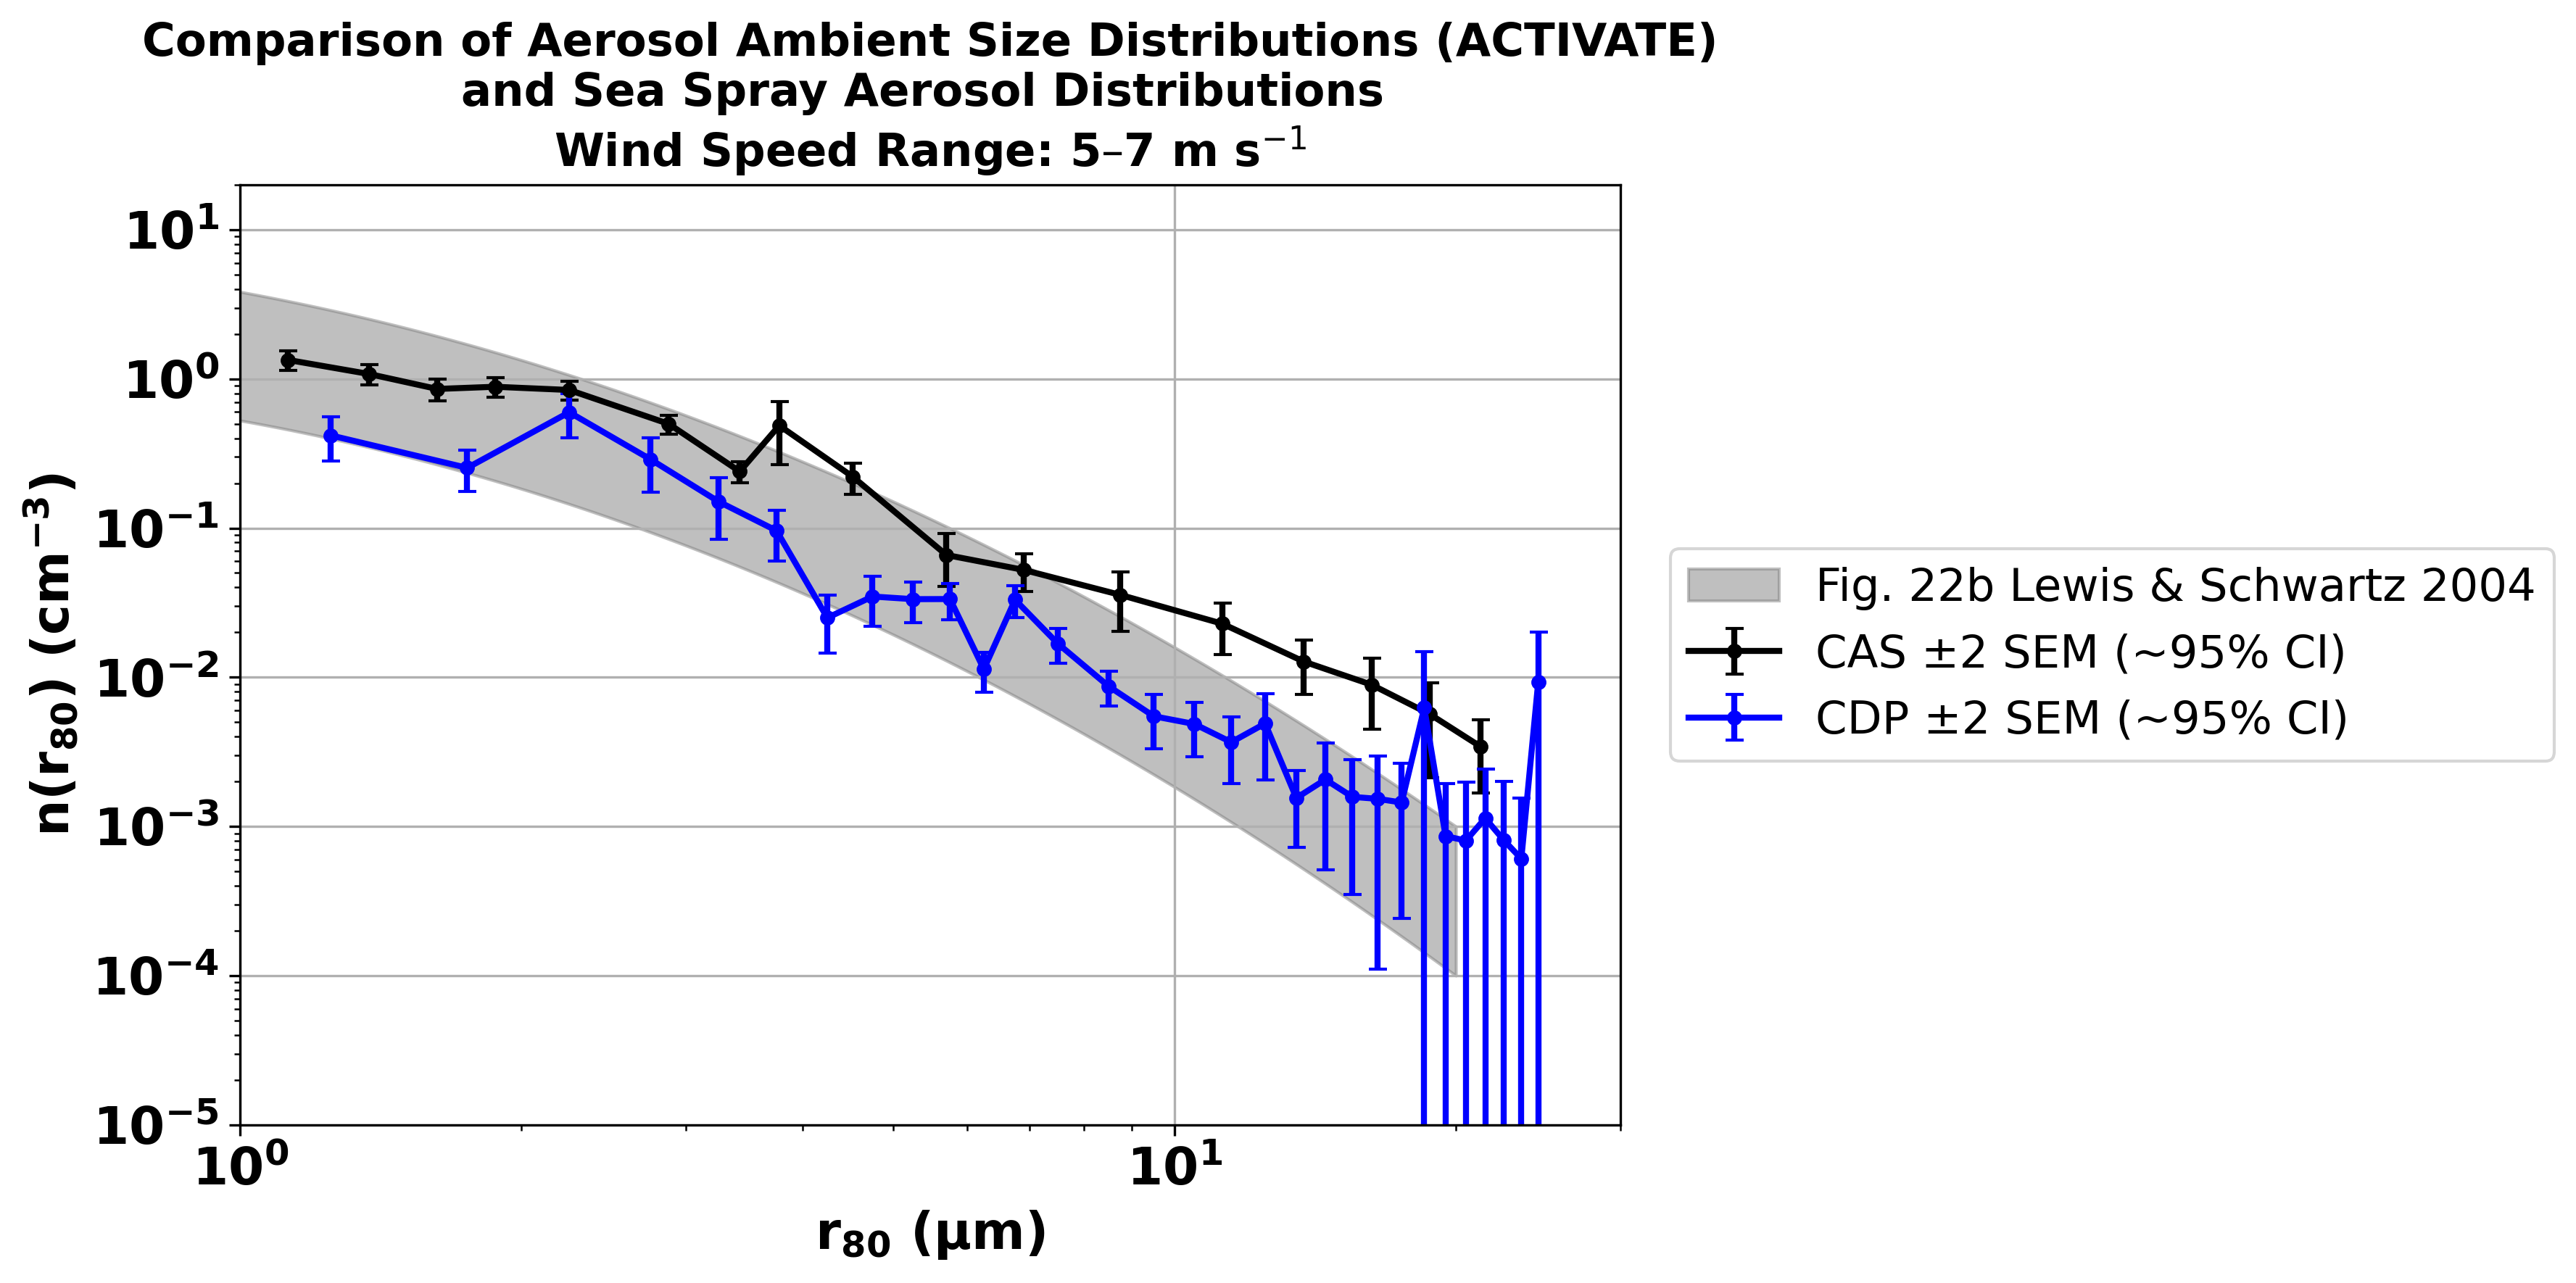
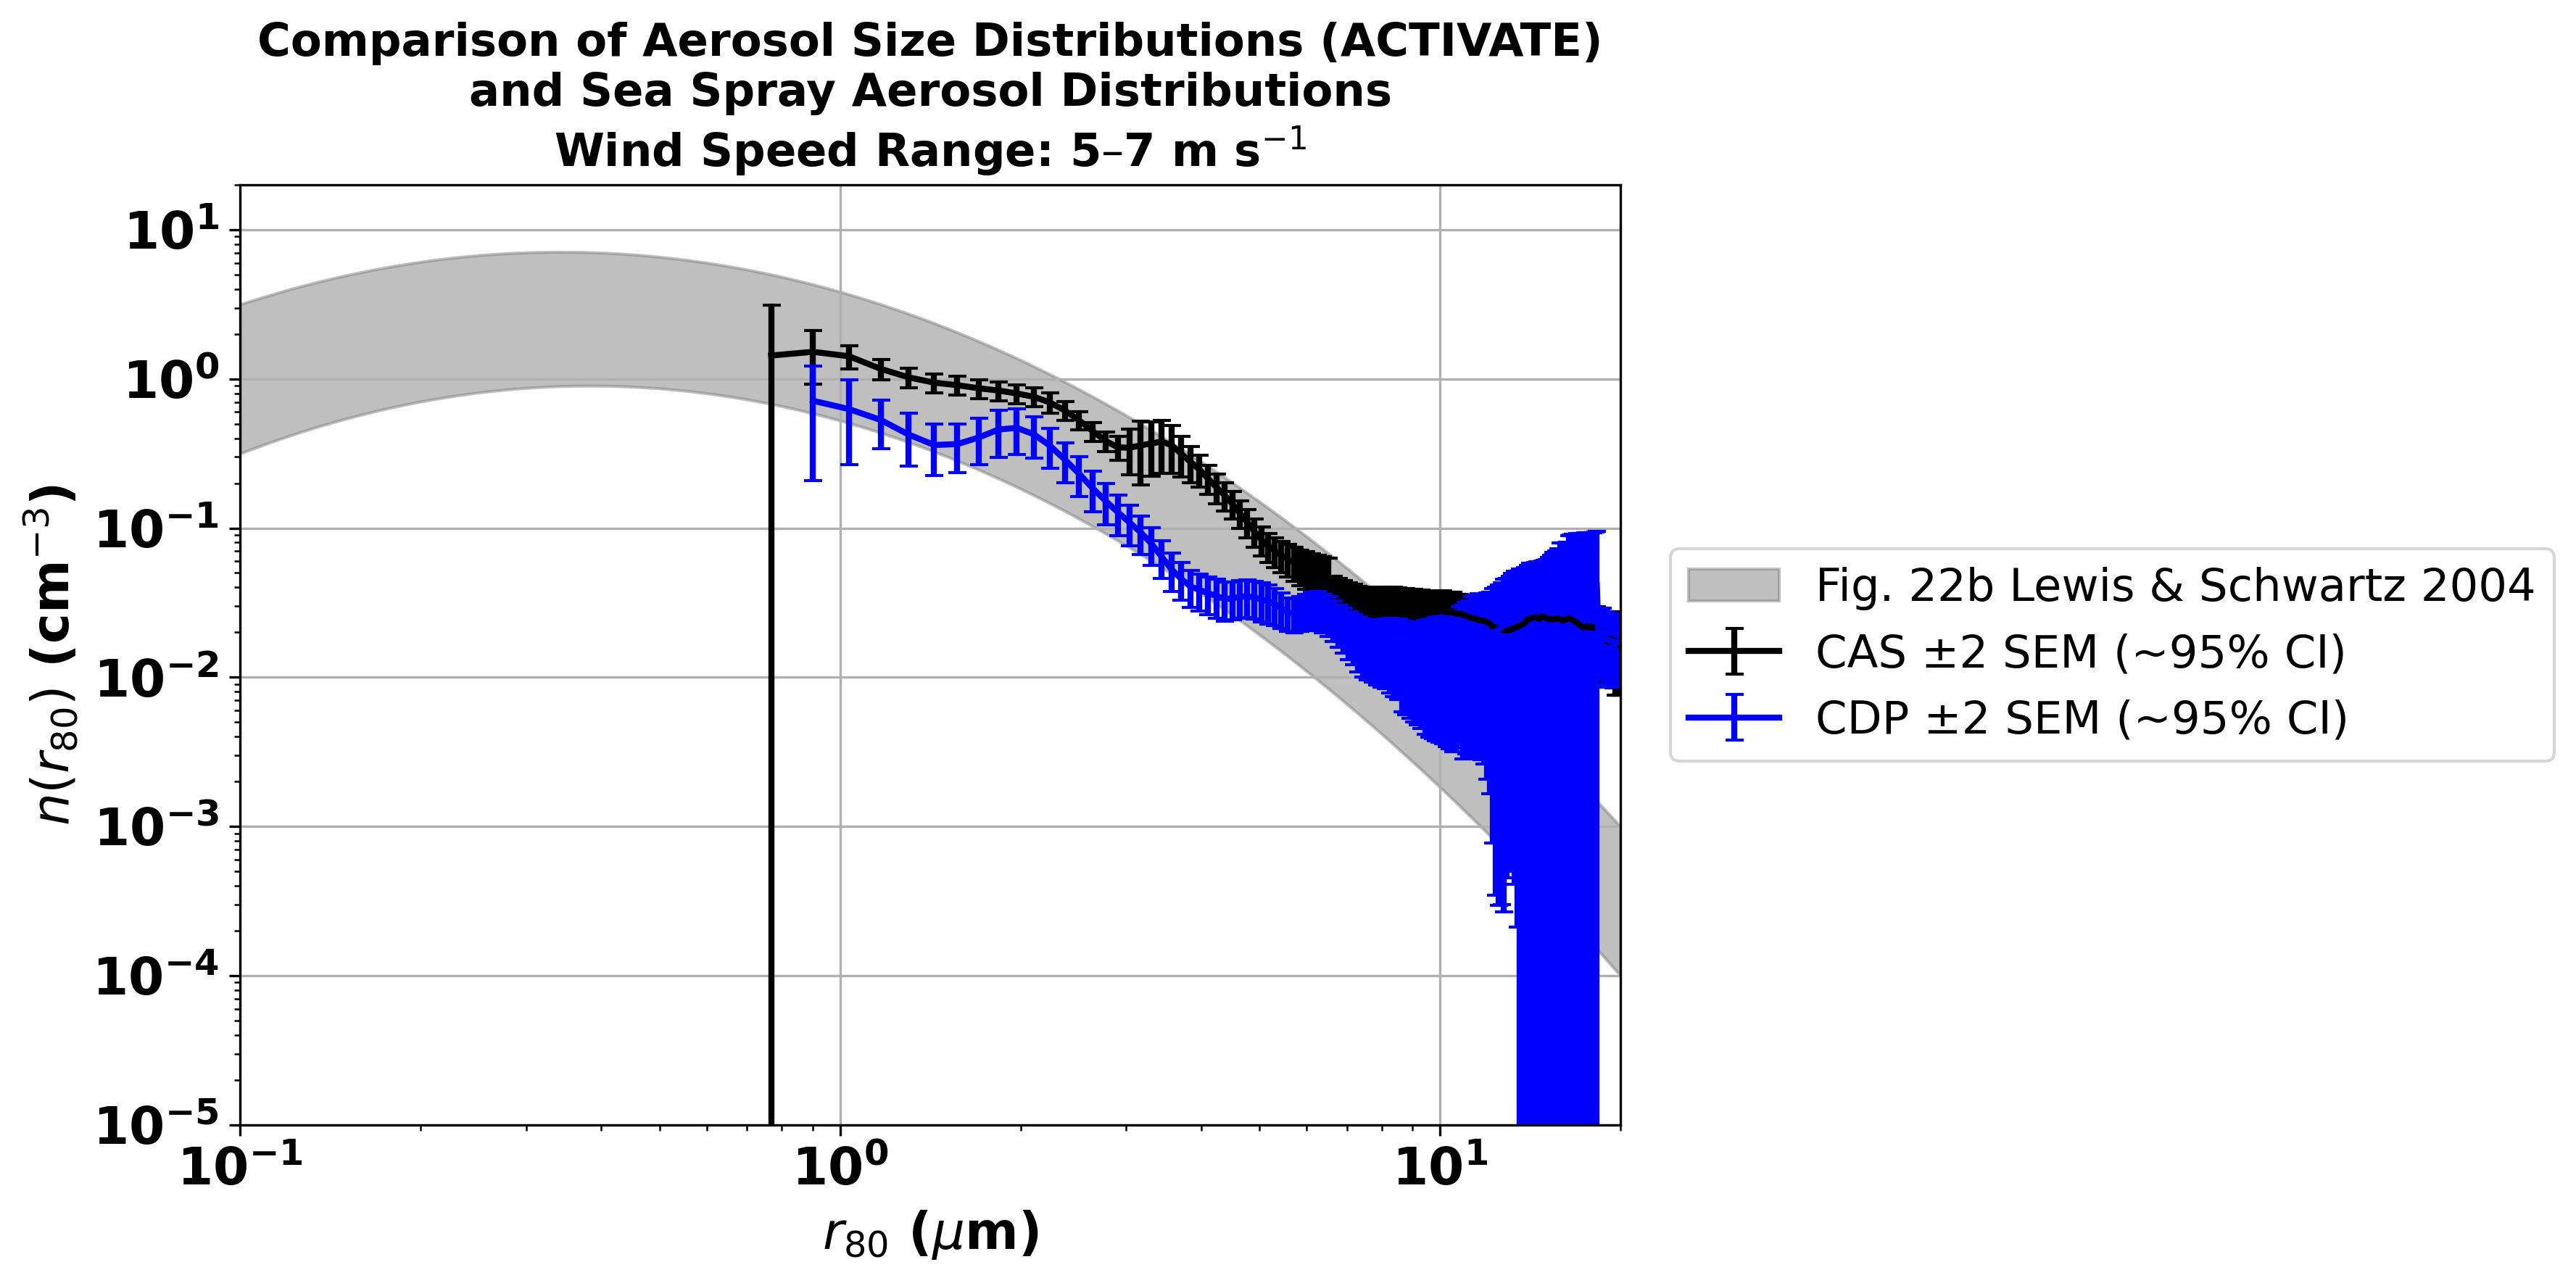
fixing LS again

diff --git a/CDP/below cloud base/2022_CDP_windspeedmassetc_humidity.py b/CDP/below cloud base/2022_CDP_windspeedmassetc_humidity.py
@@ -4095,3 +4095,147 @@ plt.show()
 #save figure as a pdf
 fig.savefig("Mass_Concentration_WindSpeed_paper.pdf", format='pdf', bbox_inches='tight')
 # %%
+#saving 
+BASE_DIR = "/home/disk/p/kathem24/activate/ACTIVATE-2024-2025/CDP/below cloud base"
+outfile = os.path.join(BASE_DIR, "CAS_CDP_wind_mass_concentration_windspeed.npz")
+np.savez(
+    outfile,
+    windspeed_values=windspeed_values,
+    total_concentrations=total_concentrations,
+    standard_errors=standard_errors,
+    counting_errors_CAS=counting_errors_CAS,
+
+    windspeed_values_CDP=windspeed_values_CDP,
+    total_concentrations_CDP=total_concentrations_CDP,
+    standard_errors_CDP=standard_errors_CDP,
+    counting_errors_CDP=counting_errors_CDP,
+    cas_x=cas_x,
+    cas_y=cas_y,
+    cas_se=cas_se,
+    cas_ce=cas_ce,
+
+    cdp_x=cdp_x,
+    cdp_y=cdp_y,
+    cdp_se=cdp_se,
+    cdp_ce=cdp_ce,
+    x_fit_CAS=x_fit_CAS,
+    y_fit_CAS=y_fit_CAS,
+    x_fit_CDP=x_fit_CDP,
+    y_fit_CDP=y_fit_CDP,
+
+    xfit_cas=xfit_cas,
+    yfit_cas=yfit_cas,
+    xfit_cdp=xfit_cdp,
+    yfit_cdp=yfit_cdp
+)
+
+print("Saved wind-bin plot data to:", outfile)
+# %%
+#table of all of this information 
+windbin_df = pd.DataFrame({
+    "Wind bin\n(mean WS, m s$^{-1}$)": [
+        "Bin 0\n(1.79 / 1.77)", 
+        "Bin 1\n(2.94 / 2.96)",
+        "Bin 2\n(4.20 / 4.22)",
+        "Bin 3\n(5.94 / 5.94)",
+        "Bin 4\n(7.99 / 8.00)",
+        "Bin 5\n(10.28 / 10.21)",
+    ],
+    "CAS Mass\nMean (µg m$^{-3}$)": ["8.55","7.60","7.82","12.90","13.14","11.89"],
+    "CAS Mass\n±2SE": ["1.82","1.42","1.17","1.63","1.52","1.50"],
+    "CAS Mass\n±2σ CountErr": ["0.23","0.22","0.27","0.41","0.41","0.42"],
+    "CAS Conc\nMean (cm$^{-3}$)": ["0.364","0.336","0.358","0.474","0.602","0.571"],
+    "CAS Conc\n±2SE": ["0.079","0.091","0.067","0.070","0.146","0.180"],
+    "CAS Conc\n±2σ CountErr": ["0.010","0.009","0.010","0.013","0.012","0.013"],
+
+    
+    "CDP Conc\n±2σ CountErr": ["0.0045","0.0035","0.0044","0.0052","0.0060","0.0064"],
+    "CDP Mass\n±2σ CountErr (µg m$^{-3}$)": ["0.3361","0.2353","0.3017","0.3561","0.5319","0.6103"],
+})
+nrows, ncols = windbin_df.shape
+fig_w = max(12, 1.7 * ncols)
+fig_h = max(3.2, 0.70 * (nrows + 1))
+
+fig, ax = plt.subplots(figsize=(fig_w, fig_h))
+ax.axis("off")
+
+tbl = ax.table(
+    cellText=windbin_df.values,
+    colLabels=windbin_df.columns,
+    cellLoc="center",
+    colLoc="center",
+    bbox=[0, 0.06, 1.0, 0.88]
+)
+
+tbl.auto_set_font_size(False)
+tbl.set_fontsize(10)
+tbl.scale(1.05, 1.55)
+
+for (r, c), cell in tbl.get_celld().items():
+    cell.set_edgecolor("black")
+    if r == 0:
+        cell.set_text_props(weight="bold")
+        cell.set_linewidth(1.2)
+        cell.set_facecolor("#F2F2F2")
+    else:
+        cell.set_linewidth(0.7)
+for c in range(ncols):
+    hcell = tbl[(0, c)]
+    hcell.set_height(hcell.get_height() * 1.25)
+
+ax.set_title("Wind-speed-binned GCCN mass and concentration (Means with ±2SE and ±2σ Counting Error)",
+             fontsize=15, fontweight="bold")
+plt.savefig("windbin_mass_conc_table.pdf", bbox_inches="tight")
+plt.show()
+fit_df = pd.DataFrame({
+    "Instrument": ["CAS", "CAS", "CDP", "CDP"],
+    "Variable": ["Mass", "Concentration", "Mass", "Concentration"],
+    "Slope (m) ± σ": [
+        "0.633 ± 0.255",
+        "0.0334 ± 0.0073",
+        "0.312 ± 0.144",
+        "0.031 ± 0.009",
+    ],
+    "Intercept (b)": [
+        "6.820",
+        "0.2667",
+        "9.623",
+        "0.065",
+    ],
+    "R²": ["0.61", "0.837", "0.54", "0.76"]
+})
+
+nrows, ncols = fit_df.shape
+fig_w = max(9, 1.6 * ncols)
+fig_h = max(2.6, 0.65 * (nrows + 1))
+
+fig, ax = plt.subplots(figsize=(fig_w, fig_h))
+ax.axis("off")
+
+tbl = ax.table(
+    cellText=fit_df.values,
+    colLabels=fit_df.columns,
+    cellLoc="center",
+    colLoc="center",
+    bbox=[0, 0.10, 1.0, 0.80]
+)
+
+tbl.auto_set_font_size(False)
+tbl.set_fontsize(11)
+tbl.scale(1.1, 1.6)
+
+for (r, c), cell in tbl.get_celld().items():
+    cell.set_edgecolor("black")
+    if r == 0:
+        cell.set_text_props(weight="bold")
+        cell.set_linewidth(1.2)
+        cell.set_facecolor("#F2F2F2")
+    else:
+        cell.set_linewidth(0.7)
+
+ax.set_title("Statistics for wind-speed-binned GCCN mass and concentration",
+             fontsize=15, fontweight="bold")
+
+plt.savefig("windbin_fit_summary_table.pdf", bbox_inches="tight")
+plt.show()
+# %%